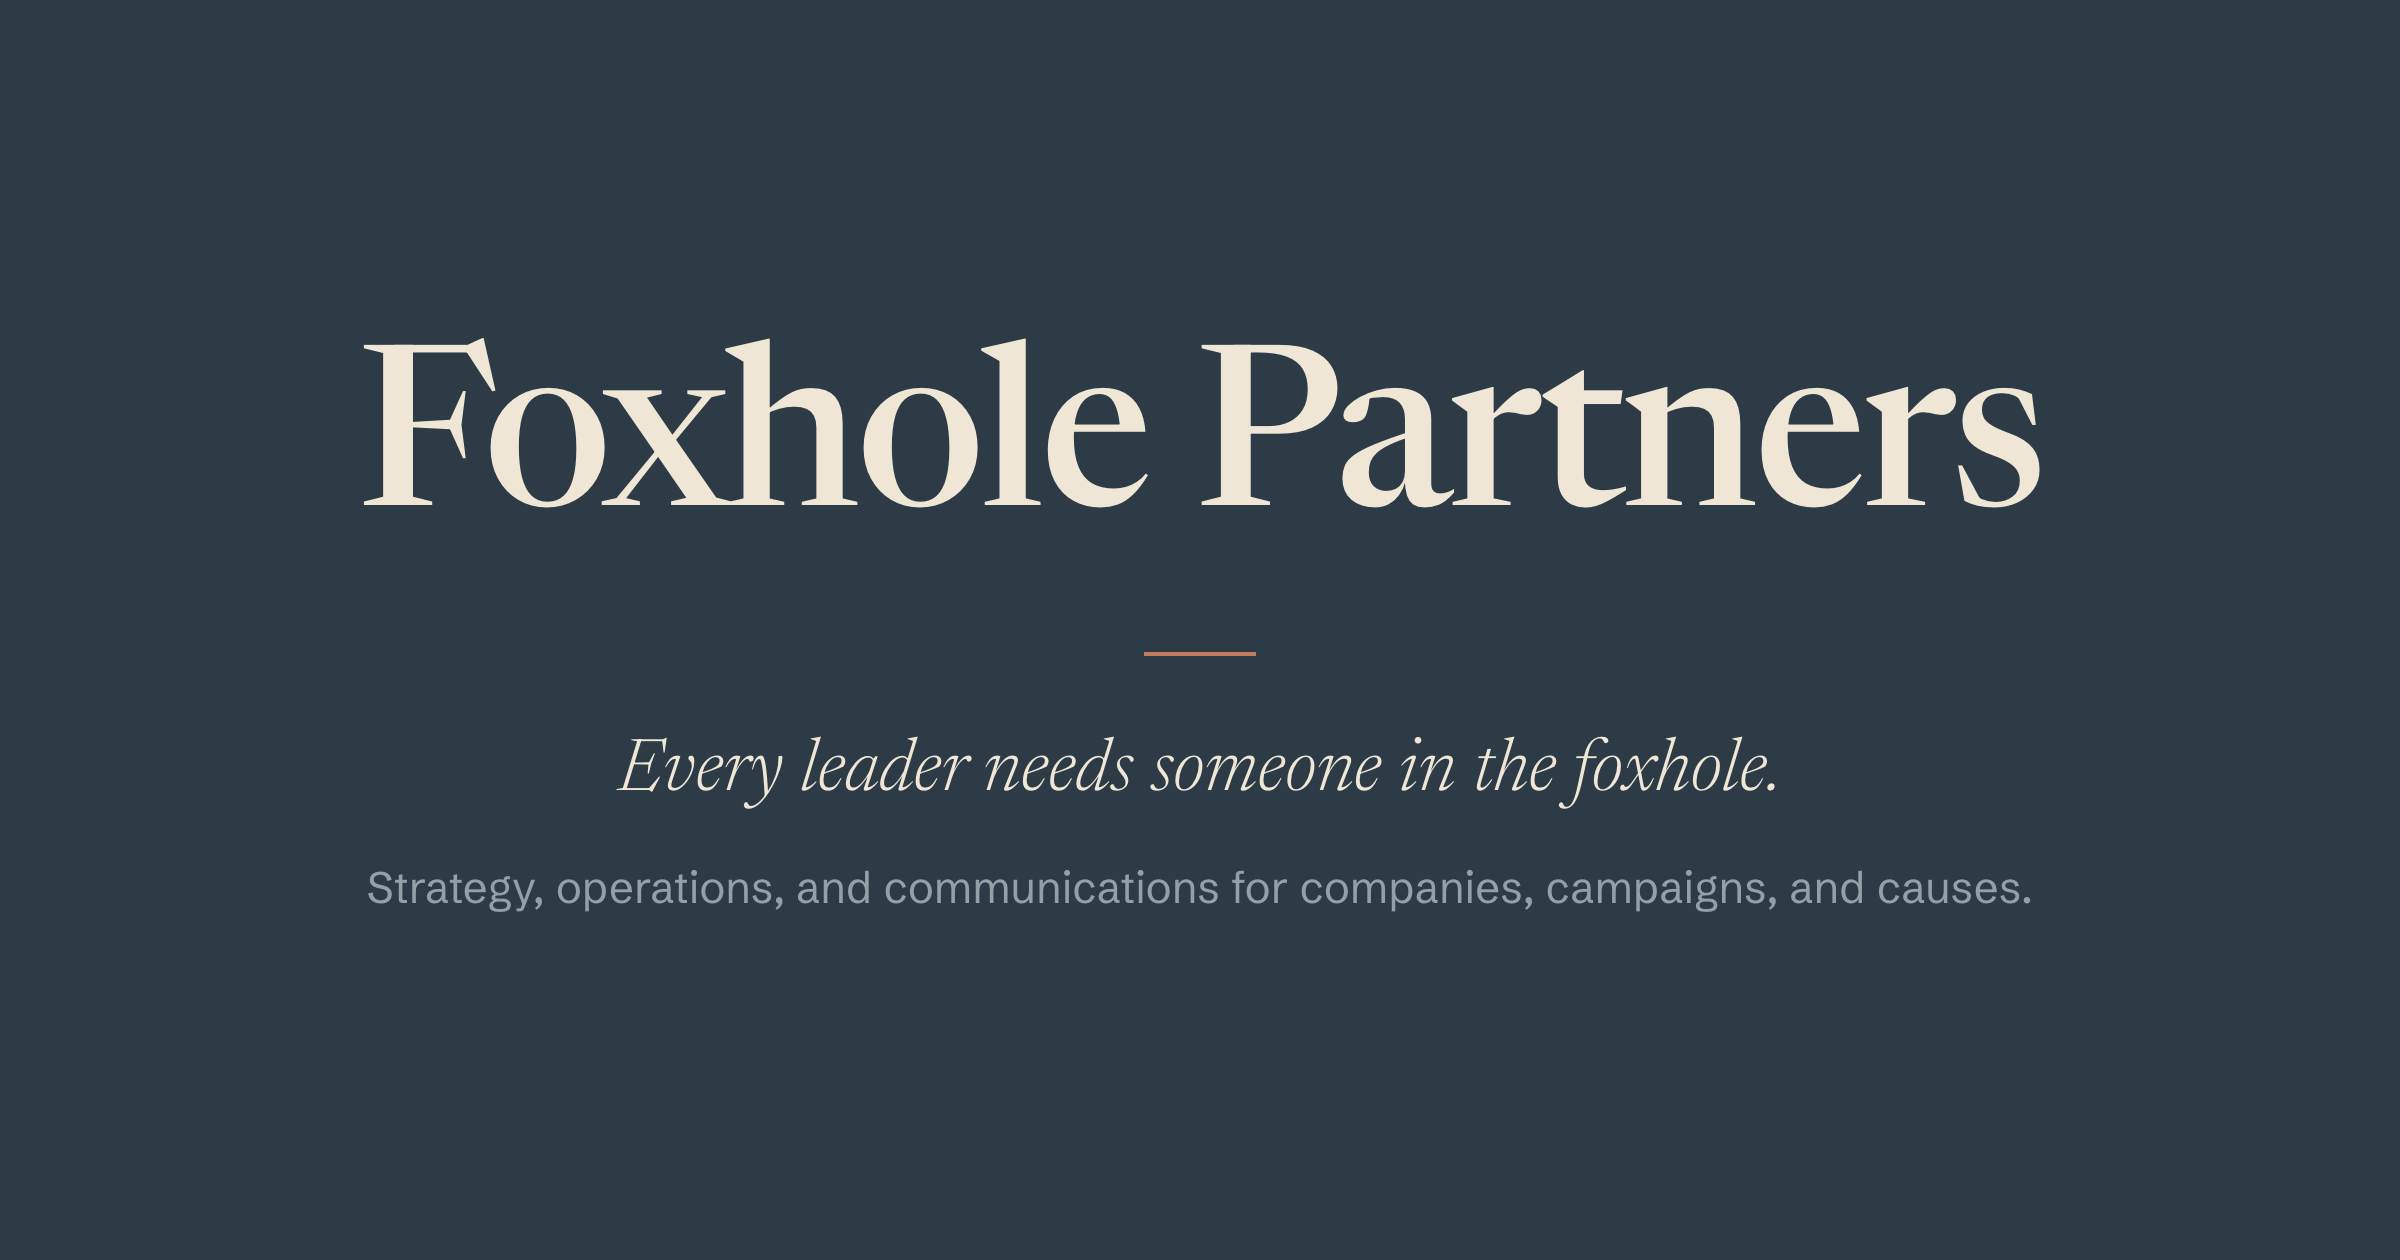
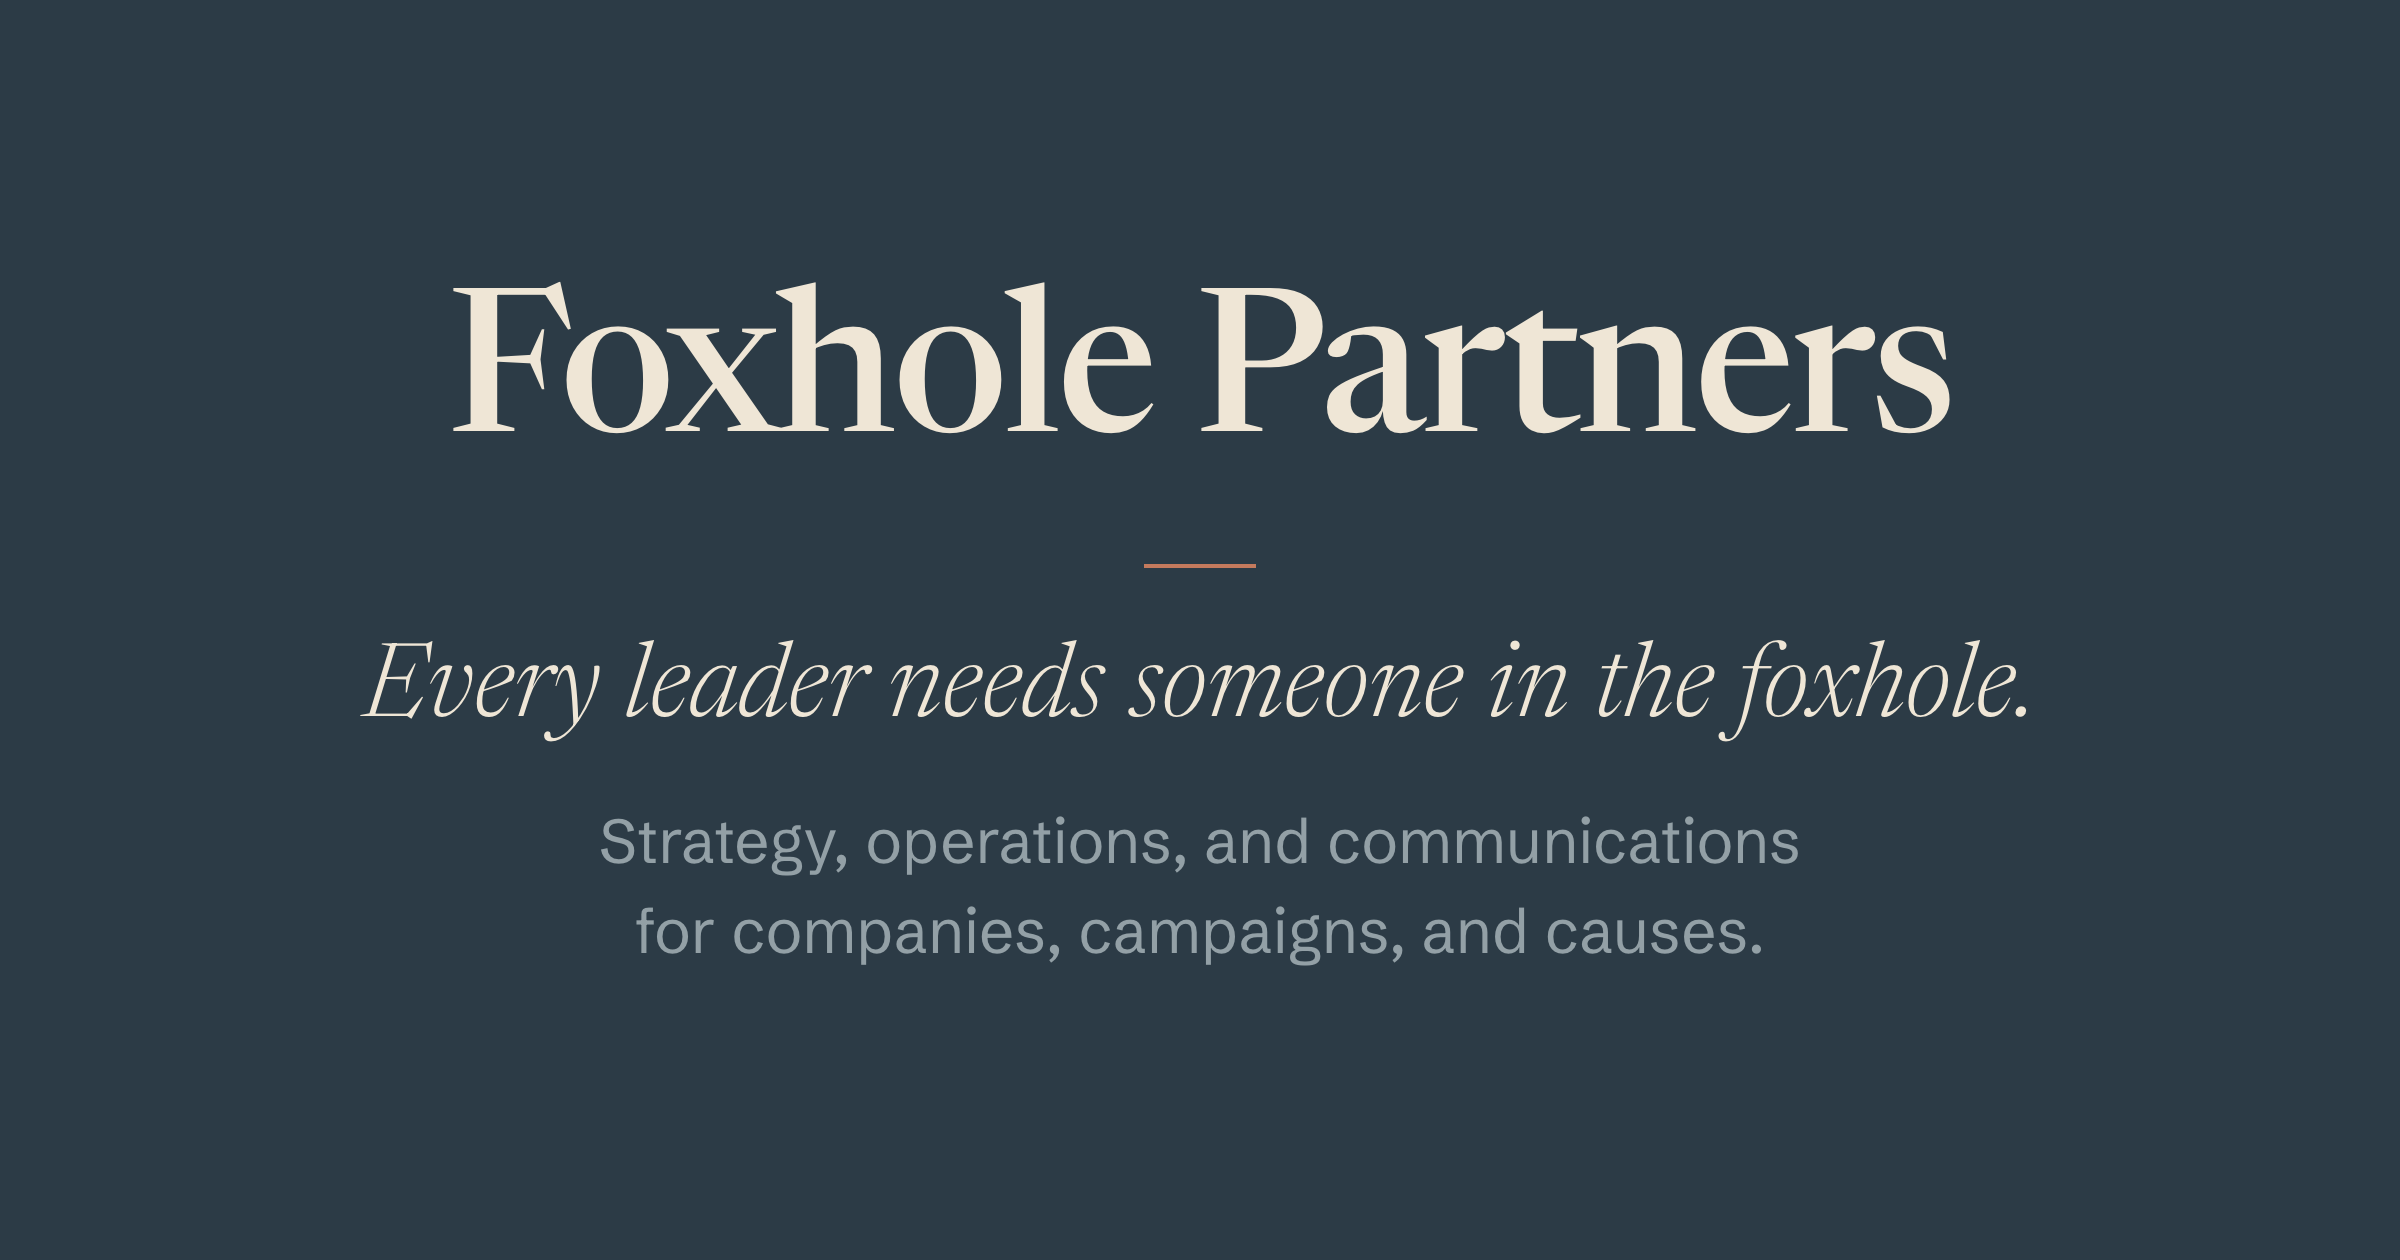
Update card

Changed region(s): [[0.1562, 0.4952, 0.8438, 0.7738], [0.1562, 0.2167, 0.875, 0.4024]]

diff --git a/design/og-card.html b/design/og-card.html
@@ -25,7 +25,7 @@
   .wordmark {
     font-family: 'Newsreader', serif;
     font-weight: 500;
-    font-size: 112px;
+    font-size: 100px;
     line-height: 1;
     letter-spacing: -0.02em;
     color: #efe6d6;
@@ -34,23 +34,24 @@
     width: 56px;
     height: 2px;
     background: #c47a5d;
-    margin: 44px 0 40px;
+    margin: 40px 0 36px;
   }
   .tagline {
     font-family: 'Newsreader', serif;
     font-style: italic;
     font-weight: 300;
-    font-size: 37px;
+    font-size: 52px;
     color: #efe6d6;
   }
   .descriptor {
     font-family: 'Schibsted Grotesk', sans-serif;
     font-weight: 400;
-    font-size: 22px;
-    line-height: 1.5;
+    font-size: 31px;
+    line-height: 1.45;
     color: #93a0a6;
-    max-width: 1060px;
-    margin-top: 22px;
+    max-width: 780px;
+    text-wrap: balance;
+    margin-top: 26px;
   }
 </style>
 </head>